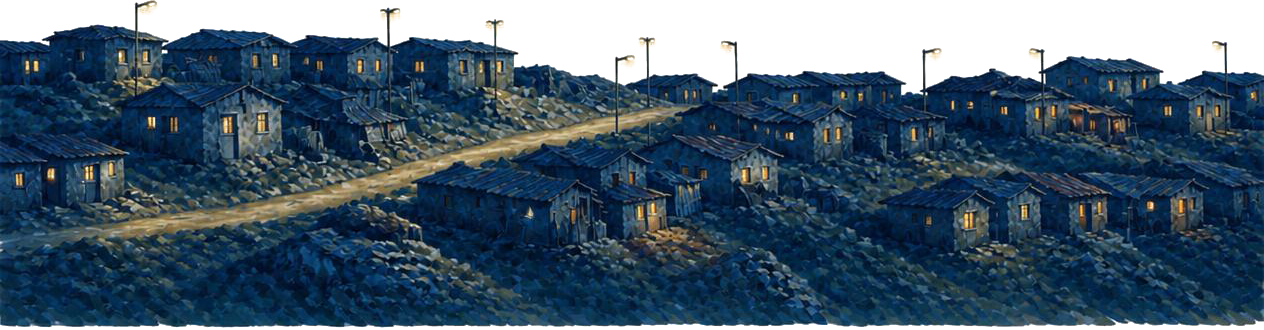
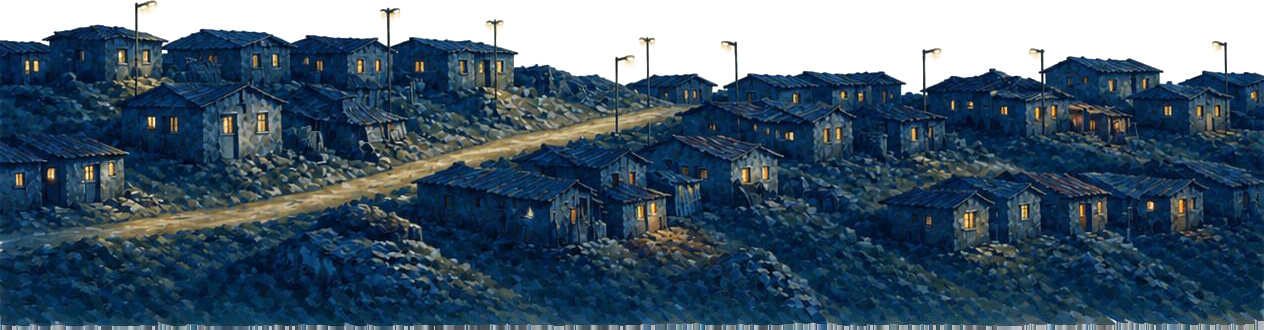
Fix day/night alignment, sun/moon horizon dip, and bottom-edge gaps
- Sun and moon now each get their own half of the day/night transition
  (0-0.5 and 0.5-1) for their full arc traversal instead of sharing the
  whole range: the sun has genuinely reached the horizon and dipped
  behind the mountains by the midpoint, and the moon starts exactly
  there and rises through its own half, so they visibly swap AT the
  horizon rather than fading out/in while still high up
- Fix the real cause of exposed background at the bottom of hills-
  village and main-village: a shared day/night crop box sized to the
  union of both images' content means whichever one has slightly less
  content at the bottom is left with a transparent margin there --
  invisible normally, but exposed by object-bottom anchoring plus any
  scroll offset. The crop script now bleeds each column's last opaque
  pixel down to the crop edge after cropping, so both images in every
  pair have a fully opaque bottom row regardless of which one's source
  content happened to reach further down

Changed region(s): [[0.0, 0.9697, 1.0, 1.0]]

diff --git a/src/components/village-parallax-scene.tsx b/src/components/village-parallax-scene.tsx
@@ -164,8 +164,8 @@ export function VillageParallaxScene() {
   const reduceMotion = useReducedMotion();
   const [entered, setEntered] = useState(false);
 
-  // Scroll -> --scene-progress (+ eased --sun-t/--moon-t and their arc
-  // x/y offsets, derived from it), written straight to the DOM: a plain
+  // Scroll -> --scene-progress (+ the sun/moon arc x/y offsets and
+  // opacities derived from it), written straight to the DOM: a plain
   // listener proved far more reliable in testing than useScroll's own
   // tracking.
   useEffect(() => {
@@ -177,15 +177,21 @@ export function VillageParallaxScene() {
       const total = rect.height - window.innerHeight;
       const progress = total > 0 ? Math.min(1, Math.max(0, -rect.top / total)) : 0;
       const daynightT = Math.min(1, Math.max(0, (progress - PHASE_A_END) / (PHASE_B_END - PHASE_A_END)));
-      // Sun dips with an ease-IN (starts slow, accelerates down and out of
-      // view); moon rises with an ease-OUT (starts fast, decelerates into
-      // place) — reversible for free since both are pure functions of
-      // scroll position, not stateful velocity.
-      const sunT = daynightT * daynightT;
-      const moonT = 1 - (1 - daynightT) * (1 - daynightT);
+      // Sun and moon each get their OWN half of the transition (0-0.5 and
+      // 0.5-1) for their full arc traversal, not the whole 0-1 span — so
+      // the sun has actually reached the horizon (dipped behind the
+      // mountains) by the midpoint, and the moon starts exactly there and
+      // rises through its own half. Splitting it this way is what makes
+      // them visibly swap AT the horizon instead of the sun fading out
+      // while still high up and the moon fading in already part-risen.
+      const sunPhase = Math.min(1, Math.max(0, daynightT / 0.5));
+      const moonPhase = Math.min(1, Math.max(0, (daynightT - 0.5) / 0.5));
+      // Ease-IN for the dip (accelerating down), ease-OUT for the rise
+      // (decelerating into place) — reversible for free since both are
+      // pure functions of scroll position, not stateful velocity.
+      const sunEase = sunPhase * sunPhase;
+      const moonEase = 1 - (1 - moonPhase) * (1 - moonPhase);
       track.style.setProperty("--scene-progress", progress.toString());
-      track.style.setProperty("--sun-t", sunT.toString());
-      track.style.setProperty("--moon-t", moonT.toString());
       // Quarter-circle arc: a shared center sits below the mountains: at
       // t_arc=0 the point is level with the center, off to one side
       // ("under the mountains", occluded); at t_arc=1 it's directly above
@@ -198,18 +204,18 @@ export function VillageParallaxScene() {
         const angleRad = (angleDeg * Math.PI) / 180;
         return { x: ARC_RADIUS_VH * Math.cos(angleRad), y: -ARC_RADIUS_VH * Math.sin(angleRad) };
       };
-      const sunArc = arcOffset(1 - sunT);
-      const moonArc = arcOffset(moonT);
+      const sunArc = arcOffset(1 - sunEase);
+      const moonArc = arcOffset(moonEase);
       track.style.setProperty("--sun-x", sunArc.x.toFixed(2));
       track.style.setProperty("--sun-y", sunArc.y.toFixed(2));
       track.style.setProperty("--moon-x", moonArc.x.toFixed(2));
       track.style.setProperty("--moon-y", moonArc.y.toFixed(2));
-      // Sun and moon must never both be visible at once: each fades out/in
-      // over a narrow band right at the day/night midpoint (0.5), reaching
-      // zero *before* the other starts rising — a brief moment with
-      // neither showing, rather than any overlap.
-      const sunOpacity = Math.min(1, Math.max(0, (0.5 - daynightT) * 8));
-      const moonOpacity = Math.min(1, Math.max(0, (daynightT - 0.5) * 8));
+      // Opacity stays fully visible through most of the dip/rise, fading
+      // only right at the horizon end of each body's own phase — reads as
+      // "sinks down, then disappears behind the mountains" / "emerges
+      // from behind the mountains, then rises", not an independent fade.
+      const sunOpacity = Math.min(1, Math.max(0, (1 - sunPhase) * 6));
+      const moonOpacity = Math.min(1, Math.max(0, moonPhase * 6));
       track.style.setProperty("--sun-opacity", sunOpacity.toFixed(3));
       track.style.setProperty("--moon-opacity", moonOpacity.toFixed(3));
       raf = 0;
